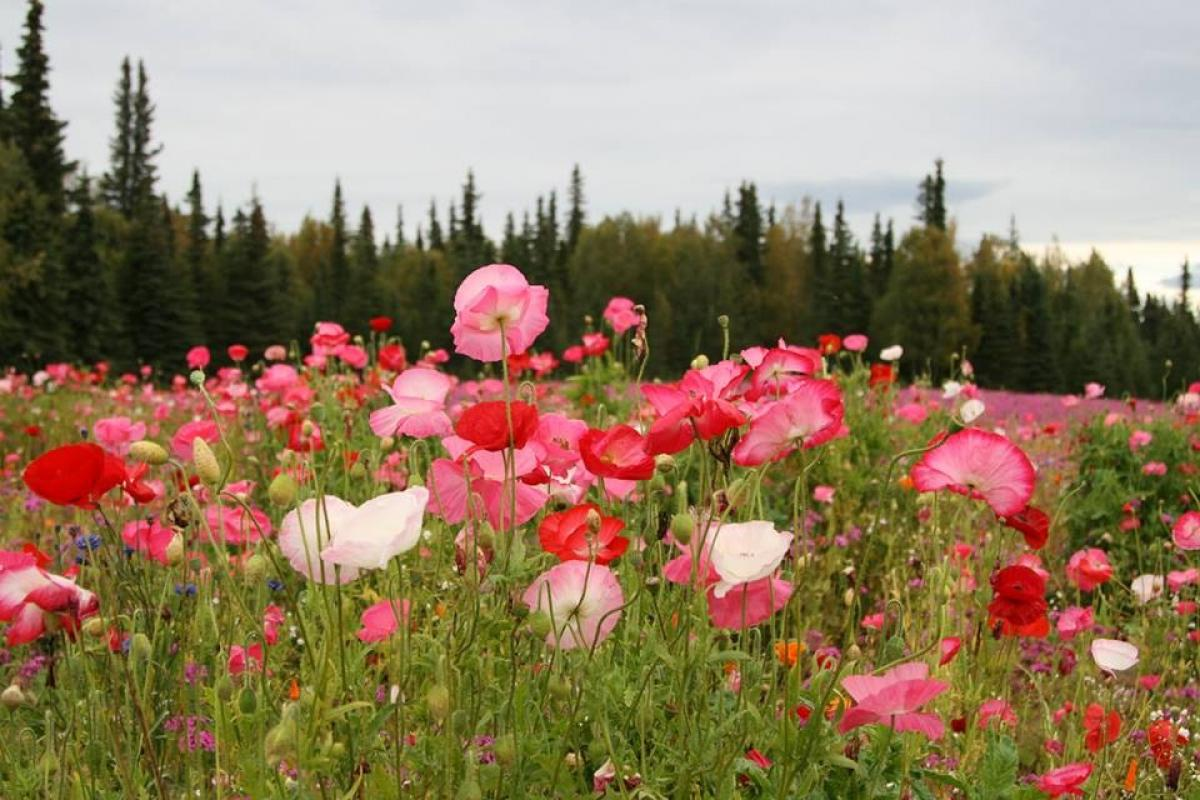
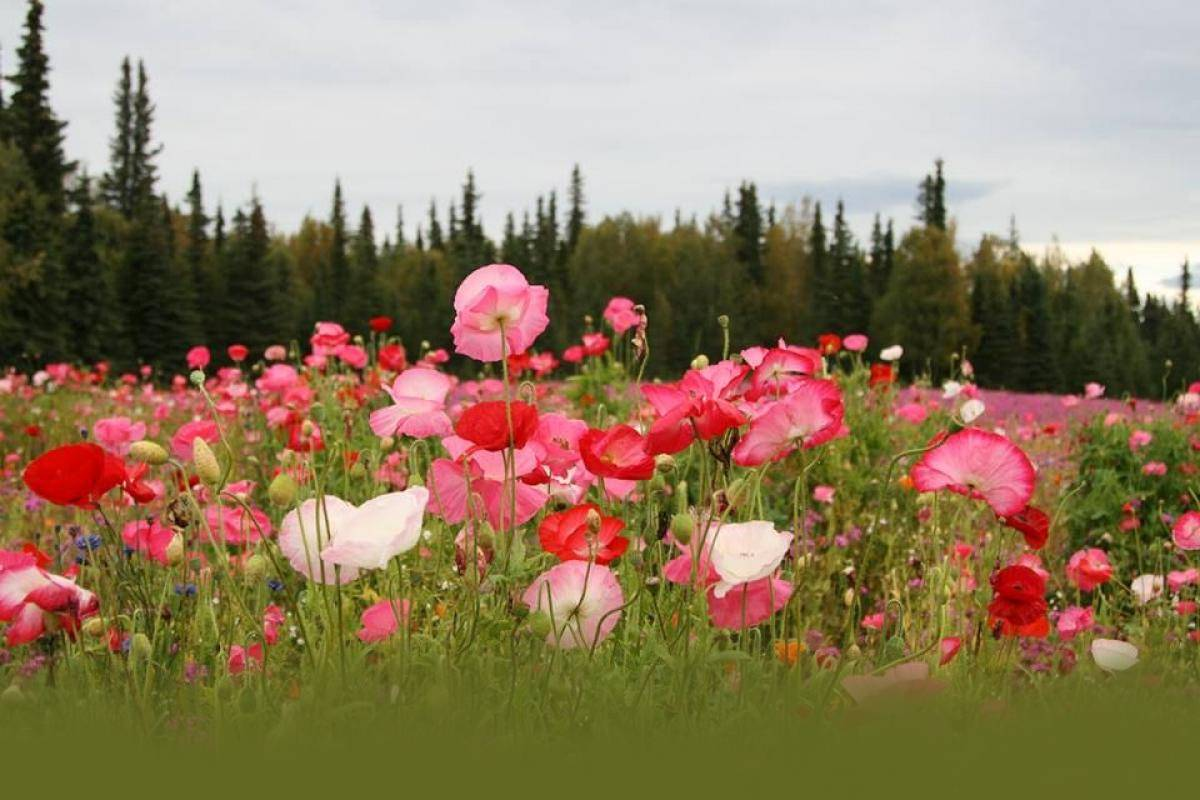
image update

Changed region(s): [[0.0, 0.7812, 1.0, 1.0], [0.4625, 0.7812, 0.4933, 0.8125], [0.4317, 0.8125, 0.4625, 0.8438]]

diff --git a/index.html b/index.html
@@ -49,6 +49,9 @@
         <a href="https://twitter.com/?lang=en"
           ><i class="fab fa-twitter"></i
         ></a>
+        <a href="mailto:226329@glenbrook225.org" target="”_blank”"
+          ><i class="far fa-envelope"></i
+        ></a>
 
         <a href="https://www.spotify.com/us/"><i class="fab fa-spotify"></i></a>
       </footer>

diff --git a/assets/main.css b/assets/main.css
@@ -141,7 +141,7 @@ Grid
   box-sizing: border-box;
 }
 body {
-  background-color: #0d080e;
+  background-color: #626822;
   background-image: url("img/wildflower_hill.jpg");
   background-repeat: no-repeat;
   background-size: 100% auto;
